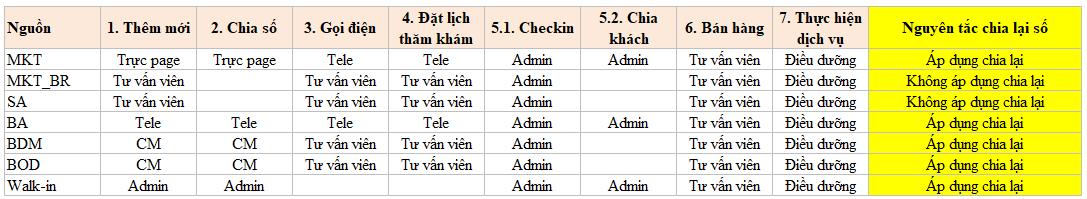
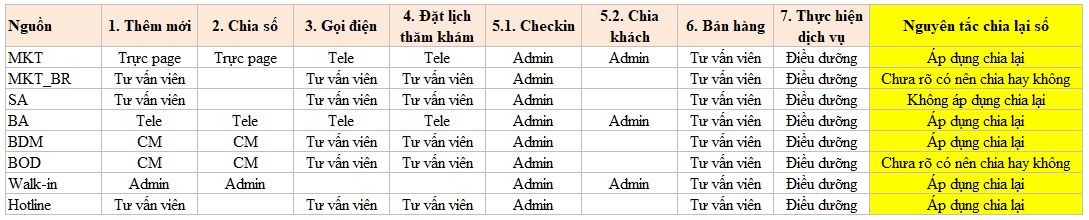
feat(org): Phan Trần Khánh Quỳnh (ptkq) làm Team Leader HN PKD1
- Fix typo tên: 'Quỳn' → 'Quỳnh'.
- Đổi assignment: team-ashley (HCM PKD1) → team-giang (HN PKD1).
- Thêm cleanup xoá assignment cũ ở team-ashley (idempotent).
- Thay ảnh flow_full.PNG (sơ đồ luồng hệ thống mới).

diff --git a/database/seeders/OrgStaffSeeder.php b/database/seeders/OrgStaffSeeder.php
@@ -240,7 +240,7 @@ class OrgStaffSeeder extends Seeder
             ['email' => 'tvh@longevity.com.vn',  'name' => 'Tạ Văn Hợi',           'job_title' => 'Clinic Manager'],
             ['email' => 'nhd@longevity.com.vn',  'name' => 'Nguyễn Hoành Đức',     'job_title' => 'Team Leader'],
             ['email' => 'tnkn@longevity.com.vn', 'name' => 'Trần Nguyễn Kim Ngân', 'job_title' => 'DM'],
-            ['email' => 'ptkq@longevity.com.vn', 'name' => 'Phan Trần Khánh Quỳn', 'job_title' => 'Team Leader'],
+            ['email' => 'ptkq@longevity.com.vn', 'name' => 'Phan Trần Khánh Quỳnh', 'job_title' => 'Team Leader'],
             ['email' => 'tbt@longevity.com.vn',  'name' => 'Trần Thị Bích Trâm',   'job_title' => 'Clinic Manager'],
             ['email' => 'nmt@longevity.com.vn',  'name' => 'Nguyễn Thị Minh Thư',  'job_title' => 'Trợ lý kinh doanh Clinic Manager (Assistant CM HCM)'],
             ['email' => 'hbtl@longevity.com.vn', 'name' => 'Huỳnh Bùi Thanh Lan',  'job_title' => 'Clinic Manager'],
@@ -340,7 +340,7 @@ class OrgStaffSeeder extends Seeder
             ['tvh@longevity.com.vn',  'CM sale',     'team-hoi-hn',   Assignment::SCOPE_TEAM,   []],
             ['nhd@longevity.com.vn',  'Team Leader', 'team-hoi-hn',   Assignment::SCOPE_TEAM,   []],
             ['tnkn@longevity.com.vn', 'DM HCM',      'branch-hcm',    Assignment::SCOPE_CUSTOM, ['branch-hcm']],
-            ['ptkq@longevity.com.vn', 'Team Leader', 'team-ashley',   Assignment::SCOPE_TEAM,   []],
+            ['ptkq@longevity.com.vn', 'Team Leader', 'team-giang',    Assignment::SCOPE_TEAM,   []],
             ['tbt@longevity.com.vn',  'CM sale',     'team-ashley-sale', Assignment::SCOPE_TEAM, []],
             ['hbtl@longevity.com.vn', 'CM sale',     'team-ashley-sale', Assignment::SCOPE_TEAM, []],
             ['nmt@longevity.com.vn',  'CM sale',     'team-ashley-sale', Assignment::SCOPE_TEAM, []],
@@ -420,6 +420,18 @@ class OrgStaffSeeder extends Seeder
         if ($leadDnUserIds->isNotEmpty() && $marketingDnId) {
             Assignment::whereIn('user_id', $leadDnUserIds)
                 ->where('org_unit_id', $marketingDnId)
+                ->delete();
+        }
+
+        // 2026-08-24: Phan Trần Khánh Quỳnh (ptkq) chuyển TL từ team-ashley (HCM PKD1)
+        // sang team-giang (HN PKD1). Xoá assignment cũ để tránh union 2 nơi.
+        $quynhId = User::whereIn('email', ['ptkq@longevity.com.vn'])
+            ->orWhereIn('name', ['Phan Trần Khánh Quỳn', 'Phan Trần Khánh Quỳnh'])
+            ->value('id');
+        $teamAshleyId = OrgUnit::where('code', 'team-ashley')->value('id');
+        if ($quynhId && $teamAshleyId) {
+            Assignment::where('user_id', $quynhId)
+                ->where('org_unit_id', $teamAshleyId)
                 ->delete();
         }
 
